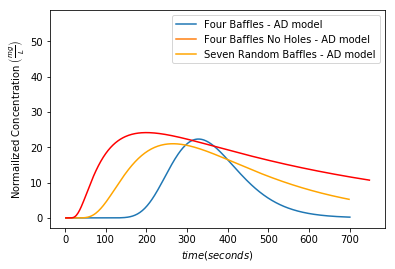
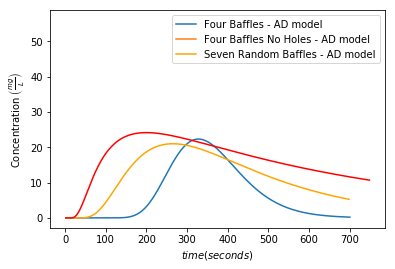
k

Changed region(s): [[0.0, 0.1487, 0.0608, 0.7435]]

diff --git a/Postlabs/Reactors Lab Report.md b/Postlabs/Reactors Lab Report.md
@@ -194,6 +194,7 @@ plt.show()
 one_baffle_path = 'https://raw.githubusercontent.com/IanStarnes/Barbara-And-Ian/master/Reactor%20Characteristics%20Data/2%20BAFFLES_CMFR.xls'
 
 one_baffle_firstrow = 1
+
 one_baffle_time_data = (epa.column_of_time(one_baffle_path,one_baffle_firstrow,-1)).to(u.s)
 one_baffle_time_data
 one_baffle_concentration_data = epa.column_of_data(one_baffle_path,one_baffle_firstrow,1,-1,'mg/L')
@@ -439,7 +440,7 @@ plt.plot(four_baffle_time_data.to(u.s), four_baffle_AD_model*9,56,'')
 plt.plot(four_baffle_noholes_time_data.to(u.s), four_baffle_noholes_AD_model*9.56, color='orange')
 plt.plot(seven_baffle_time_data.to(u.s), seven_baffle_AD_model*9.56, color = 'red')
 plt.xlabel(r'$time (seconds)$')
-plt.ylabel(r'Normailized Concentration $\left ( \frac{mg}{L} \right )$')
+plt.ylabel(r'Concentration $\left ( \frac{mg}{L} \right )$')
 plt.legend(['Four Baffles - AD model', 'Four Baffles No Holes - AD model', 'Seven Random Baffles - AD model'])
 plt.savefig('Total2.png', bbox_inches = 'tight')
 plt.show()
